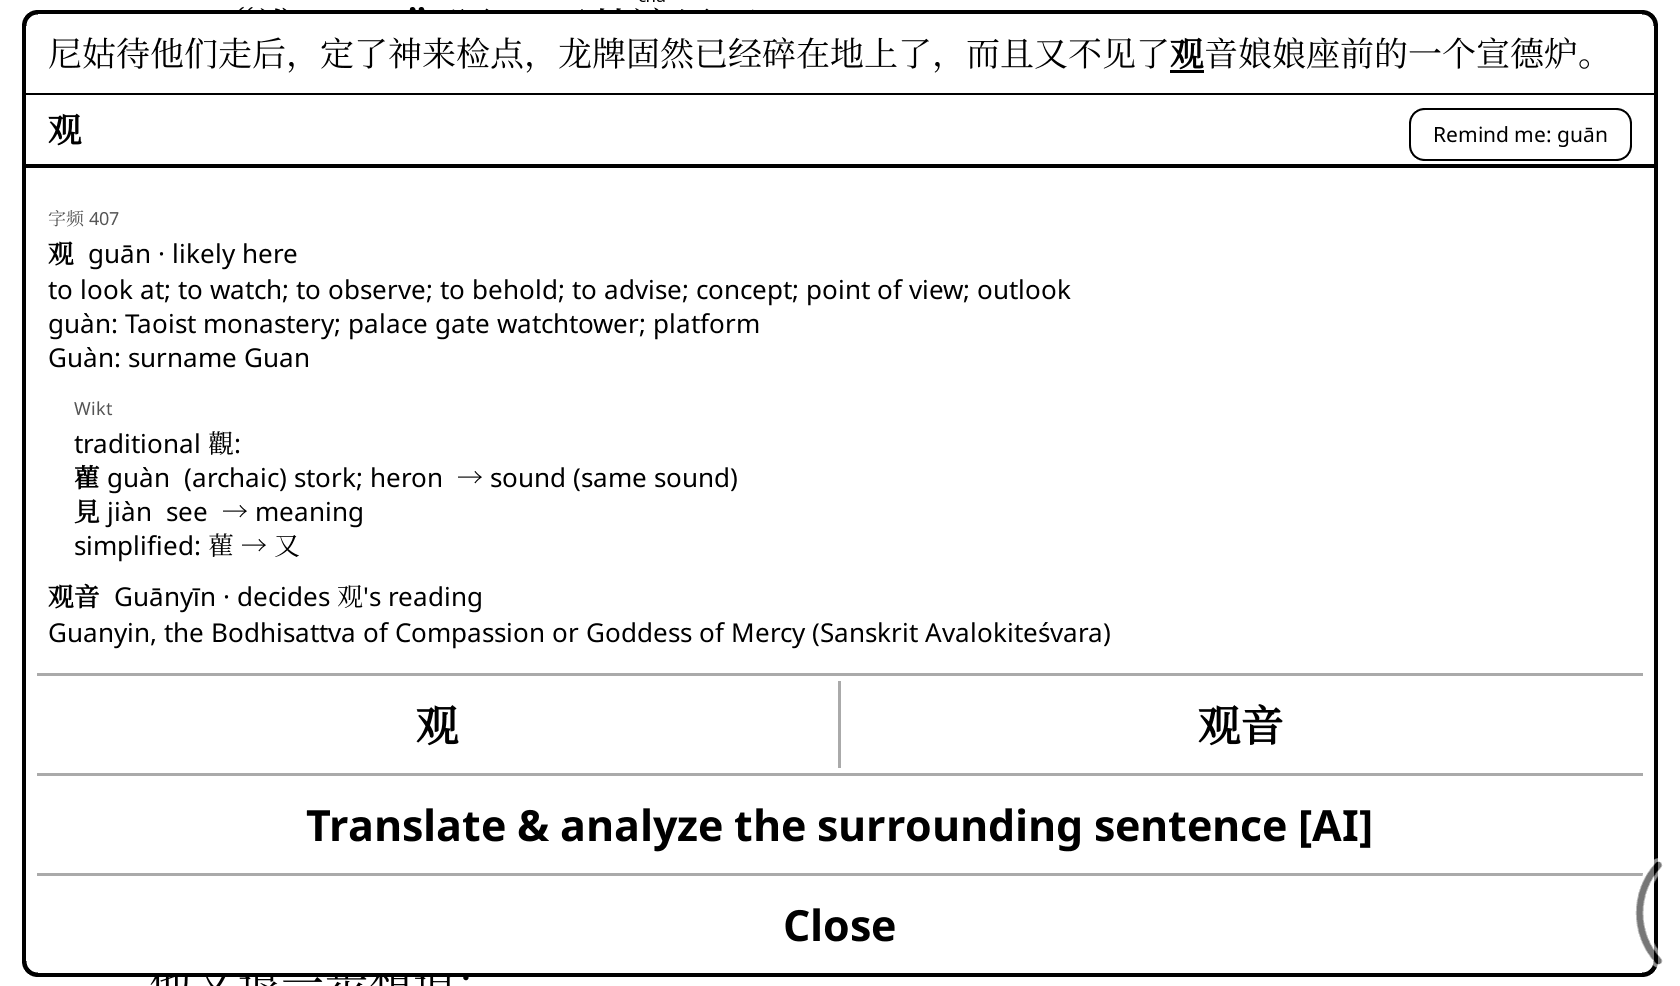
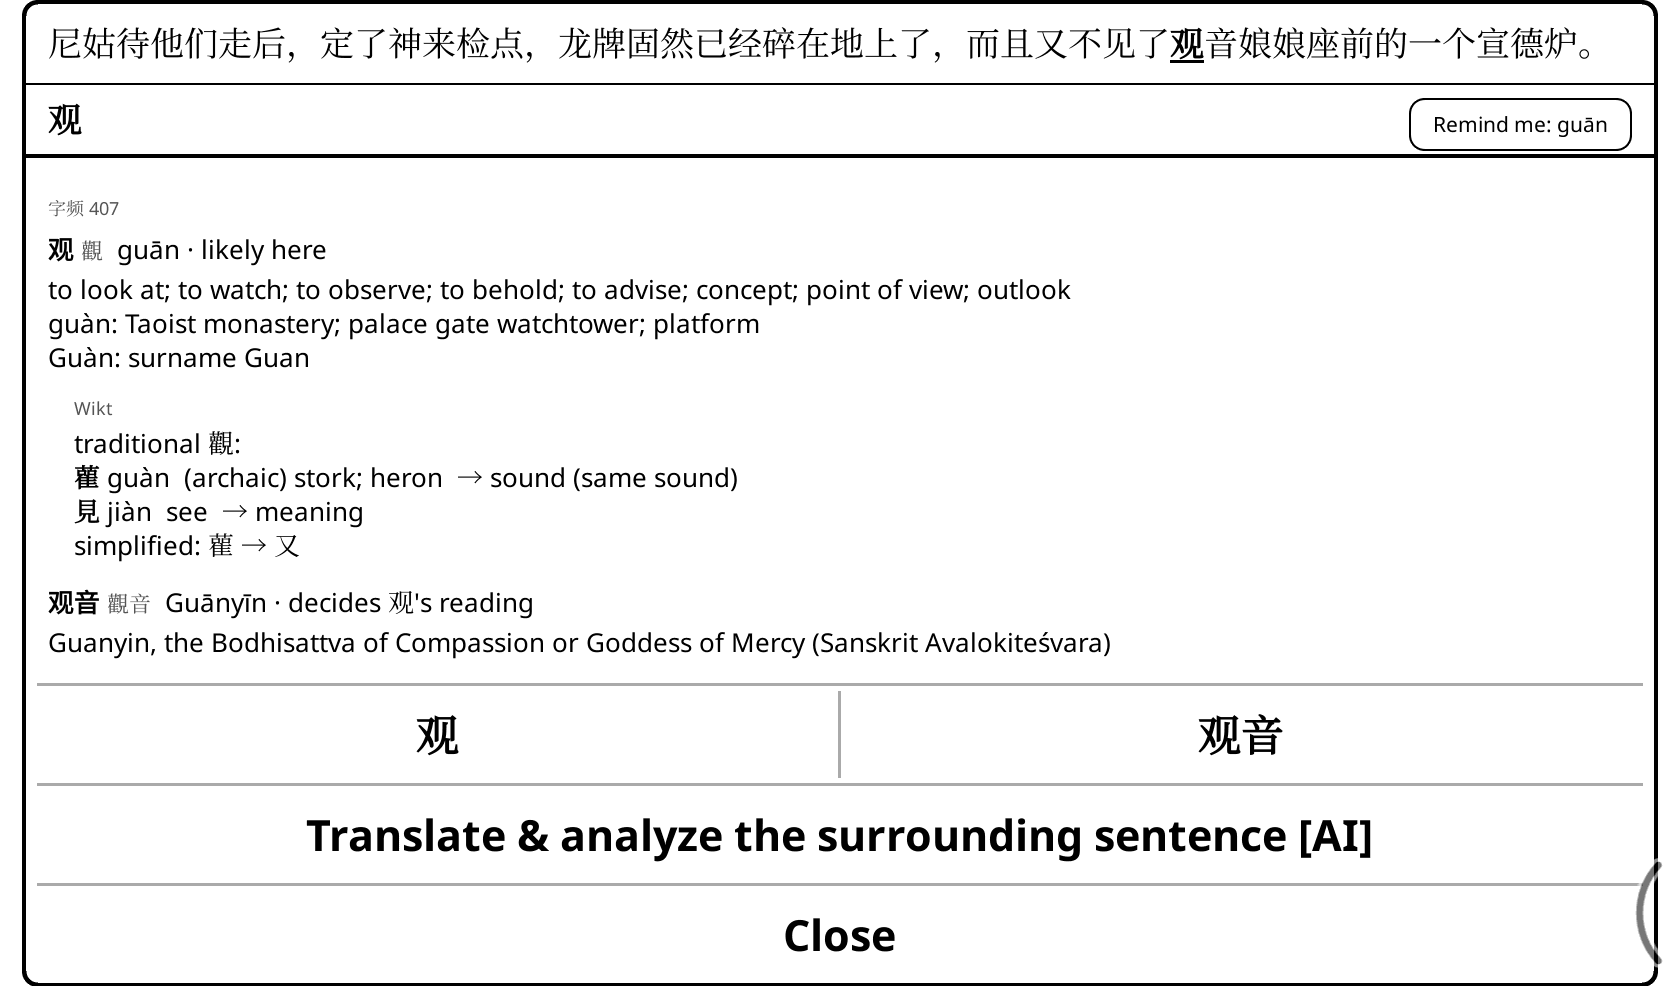
2.12.0: traditional forms on the head lines (#47); README, shots, CHANGELOG
Screenshots retaken; the shot settings now pin bundled frequency ranks.

Changed region(s): [[0.0, 0.5781, 0.9905, 1.0], [0.0, 0.0, 0.9905, 0.2738], [0.4952, 0.7606, 0.5262, 0.7911]]

diff --git a/tools/make_screenshots.py b/tools/make_screenshots.py
@@ -268,6 +268,7 @@ def settings_variant(original, pinyin=True, threshold=None):
     keys = {"chinesehelper_threshold": THRESHOLD if threshold is None else threshold, "chinesehelper_pinyin_enabled": "true" if pinyin else "false",
             "chinesehelper_popup_enabled": "true", "chinesehelper_popup_text_pct": 60,
             "chinesehelper_chinese_text_pct": 130, "chinesehelper_char_rank": "true",
+            "chinesehelper_rank_source": '"bundled"',   # the gate's ranks, whatever the reader picked
             "chinesehelper_labels": '"fallback"', "chinesehelper_moe_chars": '"fallback"', "chinesehelper_moe_words": '"fallback"',
             "chinesehelper_uncertain": '"both"',
             "chinesehelper_components": "true", "chinesehelper_popup_context": "true",

diff --git a/CHANGELOG.md b/CHANGELOG.md
@@ -1,5 +1,19 @@
 # Changelog
 
+## 2.12.0 (2026-11-19)
+
+Traditional forms on the head lines (#47)
+- Each popup entry's head line shows the word's traditional form beside it, in the same
+  typeface, smaller (0.8×) and grey, when it differs: **头发** 頭髮, **中国** 中國; nothing for
+  人民. A word shows the one form its entry gives (发现 發現, 干净 乾淨). A single character with
+  several shows them all, "/"-joined, the one the word around it uses first (发 in 头发:
+  髮/發; 干 in 干净: 乾/干/幹), the character itself included when it is one of them.
+- Applies to every block: CC-CEDICT's, the fallback dictionaries', MOE Always blocks and
+  nested popups. A Wiktionary "traditional" form of another length (a longer wording, another
+  word) is not shown. A book in traditional characters adds nothing. The entries' text and the
+  components block are unchanged.
+- **New setting, Show traditional forms** (on by default), after Show character frequency rank.
+
 ## 2.11.1 (2026-11-19)
 
 Frequency ranks labels (#45, #46)
